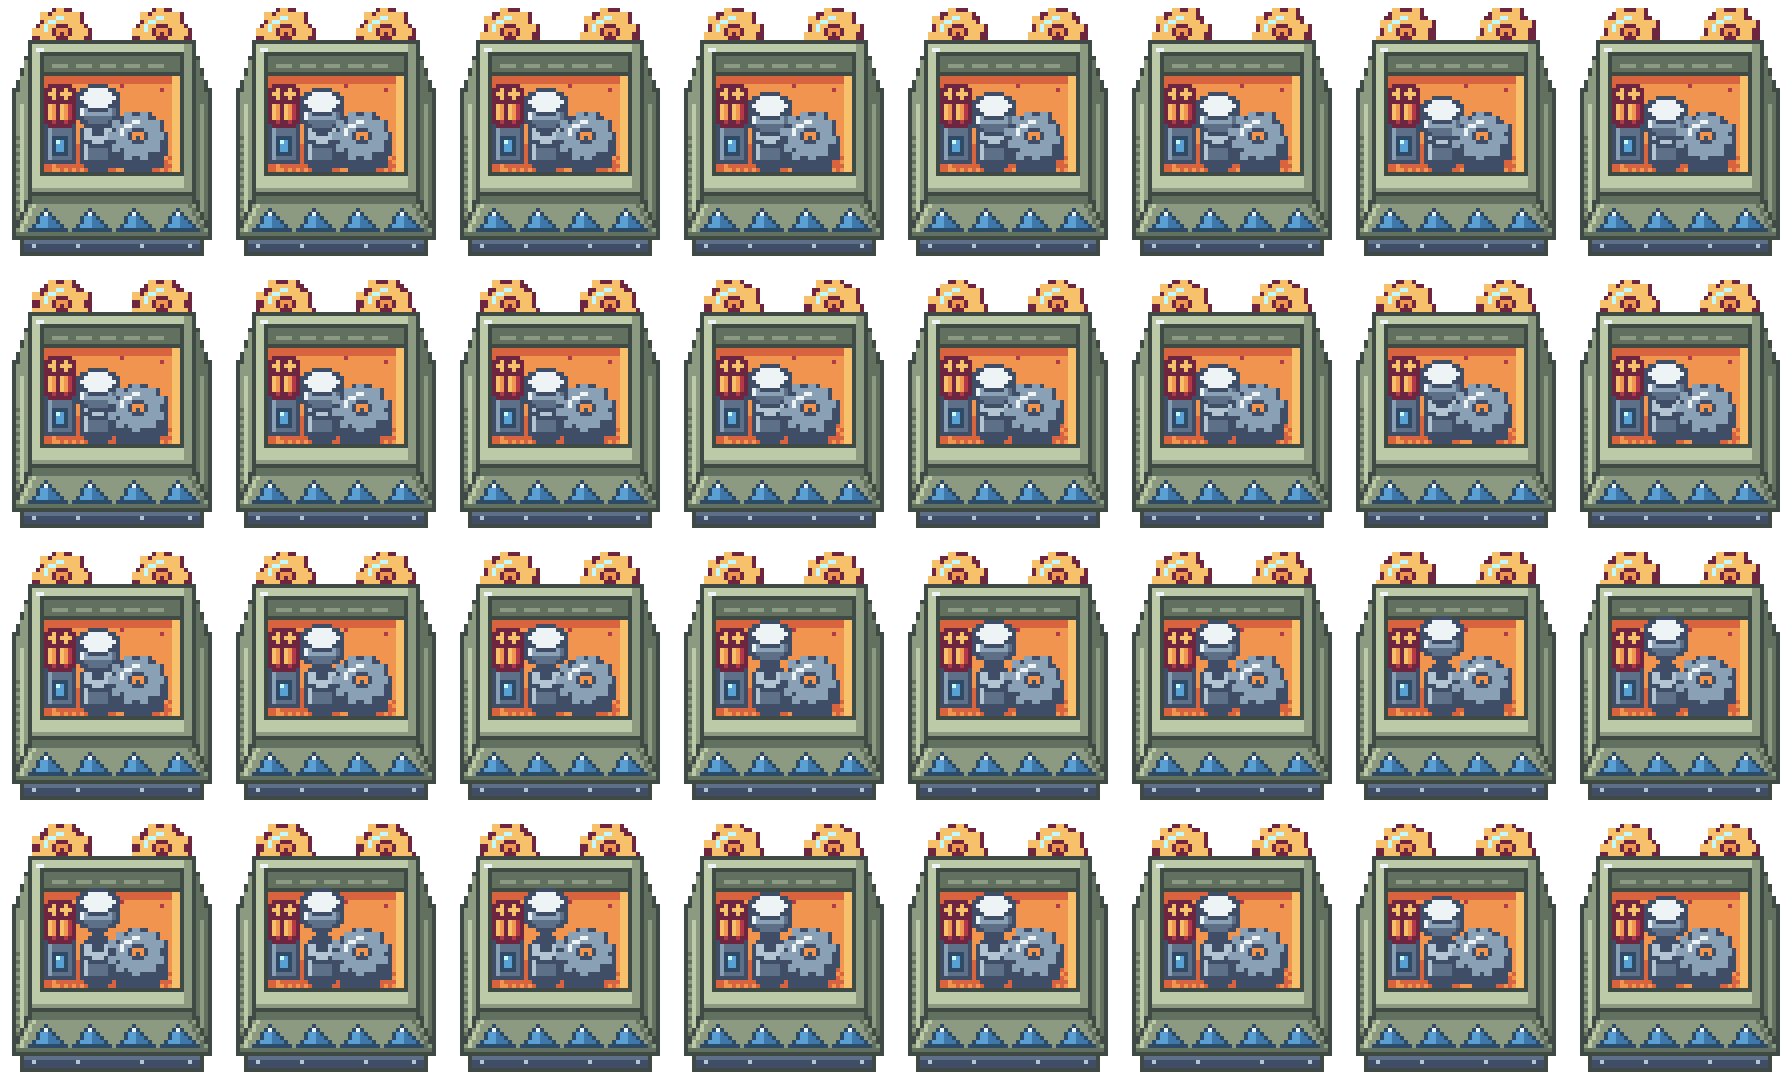
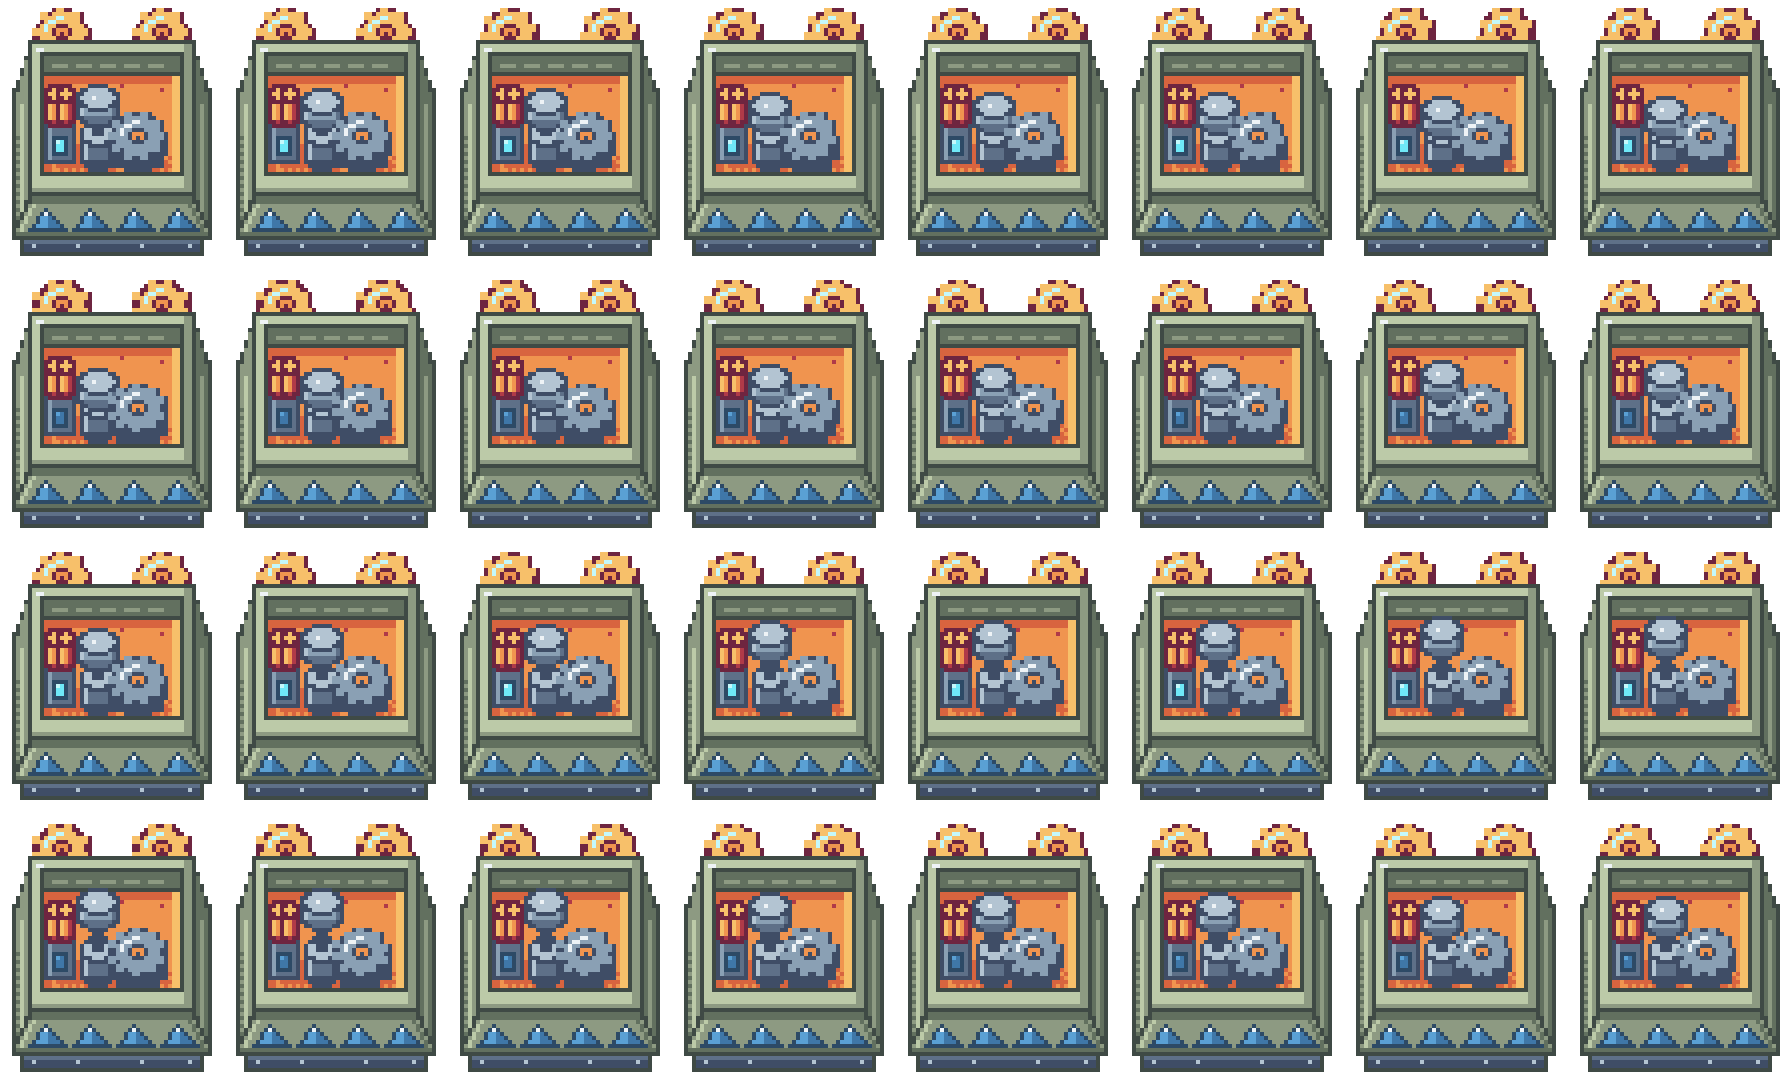
Pixel : ombre animée, voyant du moteur qui clignote, tête de piston adoucie, STYLE.md

diff --git a/pixel/pillow/assembler.py b/pixel/pillow/assembler.py
@@ -103,7 +103,8 @@ def piston(d, x, phase, offset=0.0, slim=False):
     cyl(d, x, 29, 35, rs, "steel", "steel_light", "steel_dark", "steel_dark")
     d.rectangle((x - (not slim), hy + 4, x + (not slim), 29), fill=P["steel_dark"])
     d.point((x, hy + 6), P["white"])
-    cyl(d, x, hy, hy + 4, rh, "steel_mid", "white", "steel", "steel_dark")
+    cyl(d, x, hy, hy + 4, rh, "steel_mid", "steel_light", "steel", "steel_dark")
+    d.point((x - 1, hy), P["white"])
 
 
 def draw_assembler(phase=0.0, tier=2):
@@ -157,7 +158,9 @@ def draw_assembler(phase=0.0, tier=2):
     d.rectangle((12, 28, 12, 35), fill=P["steel_mid"])
     d.rectangle((13, 30, 16, 34), fill=pn("out"))
     d.rectangle((14, 31, 15, 33), fill=pn("mid"))
-    d.point((14, 31), P["cyan_light"])
+    blink = (phase * 2) % 1 < 0.5
+    d.rectangle((14, 31, 15, 33), fill=P["cyan"] if blink else pn("dark"))
+    d.point((14, 31), P["cyan_light"] if blink else pn("mid"))
     for x in (13, 16):
         cyl(d, x, 19, 25, 1, "orange", "tan", "red", "maroon")
 

diff --git a/pixel/pillow/export_mod.py b/pixel/pillow/export_mod.py
@@ -42,7 +42,10 @@ for tier in (1, 2, 3):
     ent = OVR / "entity" / name
     ent.mkdir(parents=True, exist_ok=True)
     up(sheet).save(ent / f"{name}.png")
-    up(shadow_of(frames[0])).save(ent / f"{name}-shadow.png")
+    shadows = Image.new("RGBA", sheet.size, (0, 0, 0, 0))
+    for i, fr in enumerate(frames):
+        shadows.alpha_composite(shadow_of(fr), (W * (i % 8), H * (i // 8)))
+    up(shadows).save(ent / f"{name}-shadow.png")
     (OVR / "icons").mkdir(parents=True, exist_ok=True)
     icon_of(frames[0]).save(OVR / "icons" / f"{name}.png")
     print(name, "ok")

diff --git a/pixel/STYLE.md b/pixel/STYLE.md
@@ -1,0 +1,28 @@
+# Guide de style pixel art
+
+Référence pour tout sprite du mod pixel. Les couleurs vivent dans `pillow/palette.py` (source de vérité).
+**[VALIDÉ]** décidé avec Bastien, **[PROVISOIRE]** à confirmer en jeu.
+
+## Direction artistique
+- Pixel art net façon *Link's Awakening* / *Minish Cap* (image de référence : krank.love) : couleurs vives, formes franches, peu de détails fins. **[VALIDÉ]**
+- Les formes, proportions et couleurs par niveau restent celles de Factorio (assembleur 1 gris-vert, 2 bleu, 3 olive). **[VALIDÉ]**
+- On ajoute des éléments d'assemblage inspirés de Factorio sur le dessus : engrenages, pistons et vérins, moteur, bras articulés. **[VALIDÉ]**
+
+## Résolution
+- **16 px par case**, dessinés en code (Pillow, sans anti-aliasing), exportés **x4** (64 px par case) puis affichés avec `scale = 0.5` : 1 px d'art = 2 px de jeu. **[VALIDÉ]**
+- Un assembleur 3x3 fait environ 50 px de large en art (1 px de débord de chaque côté de l'emprise). **[PROVISOIRE]**
+
+## Projection
+- Vue ~30° : dessus du rebord clair, mur arrière intérieur visible, paroi avant évasée, **flancs gauche et droit visibles** qui s'évasent vers le bas (≈ 4 px de chaque côté). **[VALIDÉ]**
+- Chaque objet posé a un dessus clair, une face avant plus sombre et une ombre au sol en aplat. **[VALIDÉ]**
+
+## Couleurs et ombrage
+- **Jamais de noir pur** : contours = teinte très sombre de l'objet (contour coloré). **[VALIDÉ]**
+- Lumière en haut à gauche, ombre en bas à droite ; dessus = ton clair, face avant = ton moyen, côté droit = ton sombre. **[VALIDÉ]**
+- Ombres glissant vers le bleu/violet, lumières vers le jaune/cyan. Reflets blancs : 1 à 2 px par objet au maximum.
+- Tramage (damier 1 px) pour la rouille, les grilles et les reflets de vitre. **[VALIDÉ]**
+- Ombre portée au sol : sprite séparé, un par image d'animation. **[VALIDÉ]**
+
+## Animation
+- 32 images par boucle, planche 8 x 4 comme l'original. Tout mouvement doit se refermer : engrenages à nombre entier de dents par boucle (2), pistons et bras en sinus. **[VALIDÉ]**
+- Voyant du moteur qui clignote : indique visuellement que la machine travaille. **[PROVISOIRE]**

diff --git a/pixel/README.md b/pixel/README.md
@@ -26,4 +26,4 @@ tools/install_mod.sh pixel
 ## État
 
 Essai d'assembleur uniquement, 3 niveaux aux couleurs de Factorio (gris-vert, bleu, olive). Pas encore calé sur le cadre de l'original (214 × 226 px, 32 images, 64 px par case)
-ni installé dans `mod/graphics/overrides/`. Le style (STYLE.md) du mod pixel reste à écrire.
+ni installé dans `mod/graphics/overrides/`. Style : voir [STYLE.md](STYLE.md).
